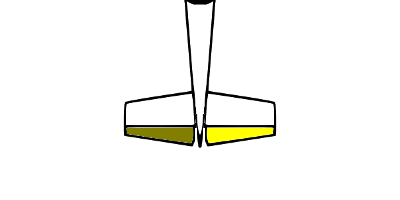
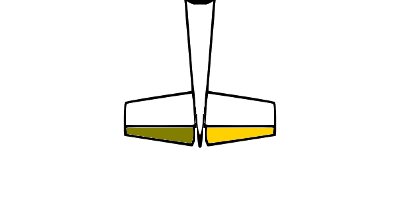
Model configuration wizard - fixed wings channel assignement

Changed region(s): [[0.51, 0.63, 0.69, 0.72]]

diff --git a/src/modelconfigdialog.cpp b/src/modelconfigdialog.cpp
@@ -1,12 +1,22 @@
 #include "modelconfigdialog.h"
 #include "ui_modelconfigdialog.h"
+#include "helpers.h"
+#include "eeprominterface.h"
 #include <QtGui>
 
-modelConfigDialog::modelConfigDialog(QWidget *parent) :
+modelConfigDialog::modelConfigDialog(RadioData &radioData, QWidget *parent) :
     QDialog(parent),
-    ui(new Ui::modelConfigDialog)
+    ui(new Ui::modelConfigDialog),
+    radioData(radioData),
+    g_eeGeneral(radioData.generalSettings)
 {
     ui->setupUi(this);
+    ruddercolor << "#ffd100" << "#ffff00";
+    throttlecolor << "#e40000";
+    aileroncolor << "#0000ff" << "#00ffff";
+    elevatorcolor << "#827f00" << "#ffff00";
+    flapscolor << "#007f00" << "#00ff00";
+    airbrakecolor << "#9b0099" << "#ff00fc";
     connect(ui->ailType_CB,SIGNAL(currentIndexChanged(int)),this,SLOT(ConfigChanged()));    
     connect(ui->flapsType_CB,SIGNAL(currentIndexChanged(int)),this,SLOT(ConfigChanged()));
     connect(ui->spoilersType_CB,SIGNAL(currentIndexChanged(int)),this,SLOT(ConfigChanged()));
@@ -24,6 +34,150 @@ modelConfigDialog::~modelConfigDialog()
     delete ui;
 }
 
+void modelConfigDialog::rxUpdate()
+{
+    QLabel * channel[] = {ui->CH_1,ui->CH_2,ui->CH_3,ui->CH_4,ui->CH_5,ui->CH_6,ui->CH_7,ui->CH_8,ui->CH_9,NULL};
+    for (int i=0; channel[i]; i++)  {
+      channel[i]->setStyleSheet("");
+    }
+    for (int i=0; i<9 ; i++) {
+      rx[i]=false;
+    }
+
+    #define ICC(x) icc[(x)-1]
+    uint8_t icc[4] = {0};
+    for(uint8_t i=1; i<=4; i++) //generate inverse array
+      for(uint8_t j=1; j<=4; j++) if(CC(i)==j) icc[j-1]=i;
+    uint8_t stick;
+    uint8_t freeCH=4;
+    switch (ModelType) {
+      case 0:
+        stick=ICC(STK_THR);
+        channel[stick-1]->setStyleSheet(QString("background-color: %1;").arg(throttlecolor.at(0)));
+        rx[stick-1]=true;
+        stick=ICC(STK_RUD);
+        channel[stick-1]->setStyleSheet(QString("background-color: %1;").arg(ruddercolor.at(0)));
+        if (ailerons>0) {
+          stick=ICC(STK_AIL);
+          channel[stick-1]->setStyleSheet(QString("background-color: %1;").arg(aileroncolor.at(0)));
+          rx[stick-1]=true;
+        }
+        stick=ICC(STK_ELE);
+        channel[stick-1]->setStyleSheet(QString("background-color: %1;").arg(elevatorcolor.at(0)));
+        if (ailerons>1) {
+          channel[freeCH]->setStyleSheet(QString("background-color: %1;").arg(aileroncolor.at(1)));
+          rx[freeCH]=true;
+          freeCH++;
+        }
+        if (elevators>1) {
+          channel[freeCH]->setStyleSheet(QString("background-color: %1;").arg(elevatorcolor.at(1)));
+          rx[freeCH]=true;
+          freeCH++;
+        }
+        for (uint8_t i=0; i< flaps; i++) {
+          channel[freeCH]->setStyleSheet(QString("background-color: %1;").arg(flapscolor.at(i)));
+          rx[freeCH]=true;
+          freeCH++;
+        }
+        break;
+      case 2:
+        if (ailerons>0) {
+          stick=ICC(STK_AIL);
+          channel[stick-1]->setStyleSheet(QString("background-color: %1;").arg(aileroncolor.at(0)));
+          rx[stick-1]=true;
+        }
+        stick=ICC(STK_ELE);
+        channel[stick-1]->setStyleSheet(QString("background-color: %1;").arg(elevatorcolor.at(0)));
+        rx[stick-1]=true;
+        stick=ICC(STK_RUD);
+        channel[stick-1]->setStyleSheet(QString("background-color: %1;").arg(ruddercolor.at(0)));
+        rx[stick-1]=true;
+        if (ailerons>1) {
+          for (int j=0; j<9 ; j++) {
+            if (!rx[j]) {
+              channel[j]->setStyleSheet(QString("background-color: %1;").arg(aileroncolor.at(1)));
+              rx[j]=true;
+              break;
+            }
+          }
+        }
+        if (elevators>1) {
+          for (int j=0; j<9 ; j++) {
+            if (!rx[j]) {
+              channel[j]->setStyleSheet(QString("background-color: %1;").arg(elevatorcolor.at(1)));
+              rx[j]=true;
+              break;
+            }
+          }
+        }
+        if (rudders>1) {
+          for (int j=0; j<9 ; j++) {
+            if (!rx[j]) {
+              channel[j]->setStyleSheet(QString("background-color: %1;").arg(ruddercolor.at(1)));
+              rx[j]=true;
+              break;
+            }
+          }
+        }      
+        for (uint8_t i=0; i< flaps; i++) {
+          for (int j=0; j<9 ; j++) {
+            if (!rx[j]) {
+              channel[j]->setStyleSheet(QString("background-color: %1;").arg(flapscolor.at(i)));
+              rx[j]=true;
+              break;
+            }
+          }
+        }
+        for (uint8_t i=0; i< spoilers; i++) {
+          for (int j=0; j<9 ; j++) {
+            if (!rx[j]) {
+              channel[j]->setStyleSheet(QString("background-color: %1;").arg(airbrakecolor.at(i)));
+              rx[j]=true;
+              break;
+            }
+          }
+        }
+        break;
+      case 3:
+        if (throttle>0) {
+          stick=ICC(STK_THR);
+          channel[stick-1]->setStyleSheet(QString("background-color: %1;").arg(throttlecolor.at(0)));
+          rx[stick-1]=true;
+        }
+        stick=ICC(STK_AIL);
+        channel[stick-1]->setStyleSheet(QString("background-color: %1;").arg(aileroncolor.at(0)));
+        rx[stick-1]=true;
+        stick=ICC(STK_ELE);
+        channel[stick-1]->setStyleSheet(QString("background-color: %1;").arg(elevatorcolor.at(0)));
+        rx[stick-1]=true;
+        if (rudders>0) {
+          stick=ICC(STK_RUD);
+          channel[stick-1]->setStyleSheet(QString("background-color: %1;").arg(ruddercolor.at(0)));
+          rx[stick-1]=true;
+          if (rudders>1) {
+            for (int j=0; j<9 ; j++) {
+              if (!rx[j]) {
+                channel[j]->setStyleSheet(QString("background-color: %1;").arg(ruddercolor.at(1)));
+                rx[j]=true;
+                break;
+              }
+            }
+          }
+        }
+        for (uint8_t i=0; i< flaps; i++) {
+          for (int j=0; j<9 ; j++) {
+            if (!rx[j]) {
+              channel[j]->setStyleSheet(QString("background-color: %1;").arg(flapscolor.at(i)));
+              rx[j]=true;
+              break;
+            }
+          }
+        }
+        break;
+
+    }
+}
+
 void modelConfigDialog::tailConfigChanged()
 {
     if (tailLock)
@@ -37,16 +191,24 @@ void modelConfigDialog::tailConfigChanged()
         switch (index) {
             case 0:
                 image.load(":/images/mcw/atailv.png");
+                rudders=1;
+                elevators=1;
                 break;
             case 1:
+                rudders=1;
+                elevators=1;
                 image.load(":/images/mcw/at1e1r.png");
                 break;
             case 2:
+                rudders=1;
+                elevators=2;
                 image.load(":/images/mcw/at2e1r.png");
                 break;
         }
         break;
       case 1:
+        elevators=1;
+        rudders=1;
         index=ui->gyro_CB->currentIndex();
         switch (index) {
             case 0:
@@ -64,12 +226,18 @@ void modelConfigDialog::tailConfigChanged()
         index=ui->tailType_CB->currentIndex();
         switch (index) {
             case 0:
+                elevators=1;
+                rudders=1;
                 image.load(":/images/mcw/gtailv.png");
                 break;
             case 1:
+                elevators=1;
+                rudders=1;
                 image.load(":/images/mcw/gt1e1r.png");
                 break;
             case 2:
+                elevators=2;
+                rudders=1;
                 image.load(":/images/mcw/gt2e1r.png");
                 break;
         }
@@ -77,6 +245,7 @@ void modelConfigDialog::tailConfigChanged()
     }
     ui->tailImg->setPixmap(QPixmap::fromImage(image));
     tailLock=false;
+    rxUpdate();
 }
 
 void modelConfigDialog::ConfigChanged()
@@ -96,6 +265,9 @@ void modelConfigDialog::ConfigChanged()
         } else {
             ui->flapsType_CB->setEnabled(true);
         }
+        ailerons=ui->ailType_CB->currentIndex();
+        flaps=ui->flapsType_CB->currentIndex();
+        throttle=1;
         imgname.append(QString("aw%1a%2f.png").arg(ui->ailType_CB->currentIndex()).arg(ui->flapsType_CB->currentIndex()));
         image.load(imgname);
         ui->wingImg->setPixmap(QPixmap::fromImage(image));
@@ -104,6 +276,8 @@ void modelConfigDialog::ConfigChanged()
         wimages.clear();
         wimages << "h90.png" << "h120.png" << "h120x.png" << "h140.png";
         index=ui->swashType_CB->currentIndex();
+        ailerons=2;
+        throttle=1;
         imgname.append(wimages.at(index));
         image.load(imgname);
         ui->wingImg->setPixmap(QPixmap::fromImage(image));
@@ -121,11 +295,19 @@ void modelConfigDialog::ConfigChanged()
         } else {
             ui->spoilersType_CB->setEnabled(true);
         }
+        ailerons=ui->ailType_CB->currentIndex();
+        flaps=ui->flapsType_CB->currentIndex();
+        spoilers=ui->spoilersType_CB->currentIndex();
+        throttle=0;
         imgname.append(QString("gw%1a%2f%3s.png").arg(ui->ailType_CB->currentIndex()).arg(ui->flapsType_CB->currentIndex()).arg(ui->spoilersType_CB->currentIndex()));
         image.load(imgname);
         ui->wingImg->setPixmap(QPixmap::fromImage(image));
         break;
       case 3:
+        ailerons=ui->ailType_CB->currentIndex();
+        flaps=ui->flapsType_CB->currentIndex();
+        rudders=ui->rudder_CB->currentIndex();
+        throttle=ui->engine_CB->currentIndex();
         imgname.append(QString("dt%1t2e%2f%3r.png").arg(ui->engine_CB->currentIndex()).arg(ui->flapsType_CB->currentIndex()).arg(ui->rudder_CB->currentIndex()));
         image.load(imgname);
         ui->wingImg->setPixmap(QPixmap::fromImage(image));
@@ -134,12 +316,12 @@ void modelConfigDialog::ConfigChanged()
         image.load(imgname);
         ui->tailImg->setPixmap(QPixmap::fromImage(image));
         break;
-        
       default:
         ui->wingImg->clear();
         break;
     }
     wingsLock=false;
+    rxUpdate();
 }
 
 void modelConfigDialog::on_planeButton_clicked()
@@ -188,6 +370,7 @@ void modelConfigDialog::on_planeButton_clicked()
     ui->deltaButton->setEnabled(true);
     wingsLock=false;
     tailLock=false;
+    resetControls();
     ConfigChanged();
     tailConfigChanged();
 }
@@ -238,6 +421,7 @@ void modelConfigDialog::on_heliButton_clicked()
     ui->deltaButton->setEnabled(true);
     wingsLock=false;
     tailLock=false;
+    resetControls();
     ConfigChanged();
     tailConfigChanged();
 }
@@ -289,6 +473,7 @@ void modelConfigDialog::on_gliderButton_clicked()
     ui->deltaButton->setEnabled(true);
     wingsLock=false;
     tailLock=false;
+    resetControls();
     ConfigChanged();
     tailConfigChanged();
 }
@@ -339,6 +524,7 @@ void modelConfigDialog::on_deltaButton_clicked()
     ui->deltaButton->setDisabled(true);
     wingsLock=false;
     tailLock=false;
+    resetControls();
     ConfigChanged();
 }
 
@@ -346,6 +532,15 @@ void modelConfigDialog::on_deltaButton_clicked()
 void modelConfigDialog::formSetup()
 {
     on_planeButton_clicked();
+}
+
+void modelConfigDialog::resetControls() {
+  ailerons=0;
+  rudders=0;
+  throttle=0;
+  elevators=0;
+  spoilers=0;
+  flaps=0;
 }
 
 

diff --git a/src/modelconfigdialog.h b/src/modelconfigdialog.h
@@ -1,6 +1,6 @@
 #ifndef MODELCONFIGDIALOG_H
 #define MODELCONFIGDIALOG_H
-
+#include "eeprominterface.h"
 #include <QDialog>
 #include <QtGui>
 
@@ -12,7 +12,7 @@ namespace Ui {
 class modelConfigDialog : public QDialog {
     Q_OBJECT
 public:
-    modelConfigDialog(QWidget *parent = 0);
+    modelConfigDialog(RadioData &radioData, QWidget *parent = 0);
     ~modelConfigDialog();
 
 private:
@@ -20,11 +20,29 @@ private:
     bool wingsLock;
     bool tailLock;
     int ModelType;
+    RadioData &radioData;
+    GeneralSettings g_eeGeneral;
+    QStringList ruddercolor;
+    QStringList aileroncolor;
+    QStringList elevatorcolor;
+    QStringList throttlecolor;
+    QStringList flapscolor;
+    QStringList airbrakecolor;
+    bool rx[9];
+    unsigned int ailerons;
+    unsigned int rudders;
+    unsigned int throttle;
+    unsigned int elevators;
+    unsigned int spoilers;
+    unsigned int flaps;
+    
 
 
 private slots:
     void ConfigChanged();
     void tailConfigChanged();
+    void rxUpdate();
+    void resetControls();
     void on_planeButton_clicked();
     void on_heliButton_clicked();
     void on_gliderButton_clicked();

diff --git a/src/modeledit.cpp b/src/modeledit.cpp
@@ -3948,8 +3948,8 @@ void ModelEdit::on_templateList_doubleClicked(QModelIndex index)
 {
     QString text = ui->templateList->item(index.row())->text();
     if (index.row()==13) {
-      modelConfigDialog mcw;
-      mcw.exec();
+      modelConfigDialog *mcw = new modelConfigDialog(radioData, this);
+      mcw->exec();
     } else {
       int res = QMessageBox::question(this,tr("Apply Template?"),tr("Apply template \"%1\"?").arg(text),QMessageBox::Yes | QMessageBox::No);
       if(res!=QMessageBox::Yes) return;
